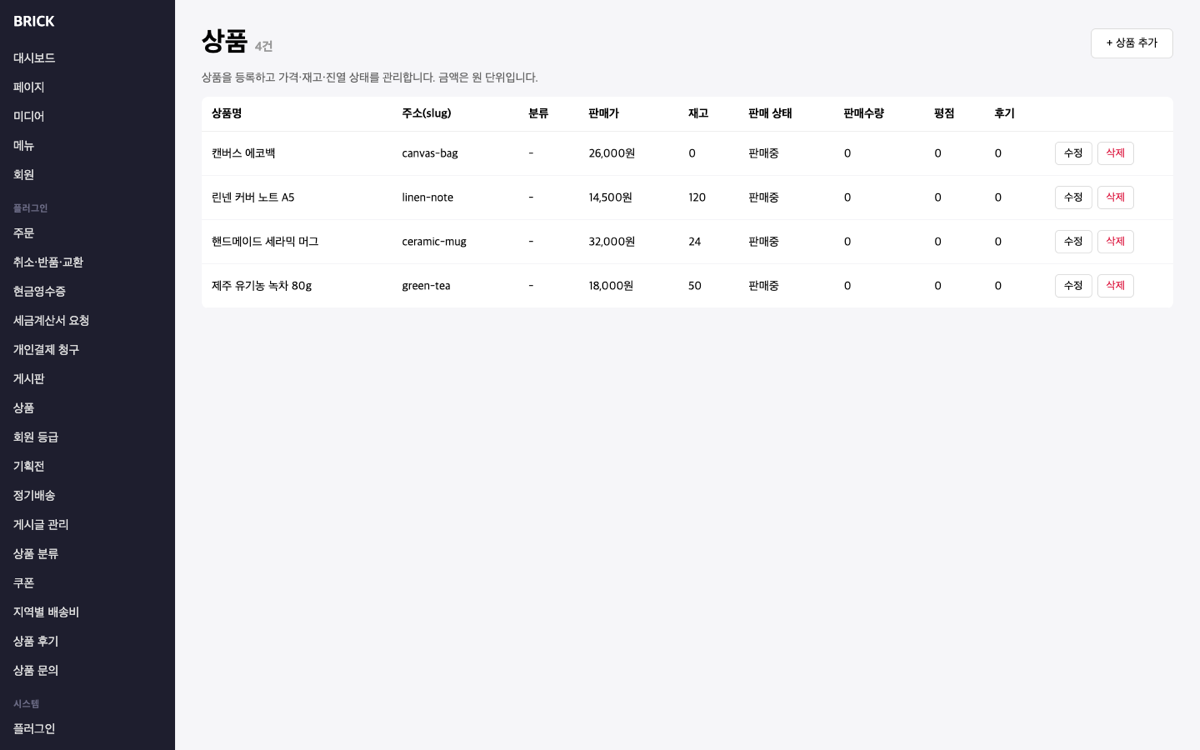
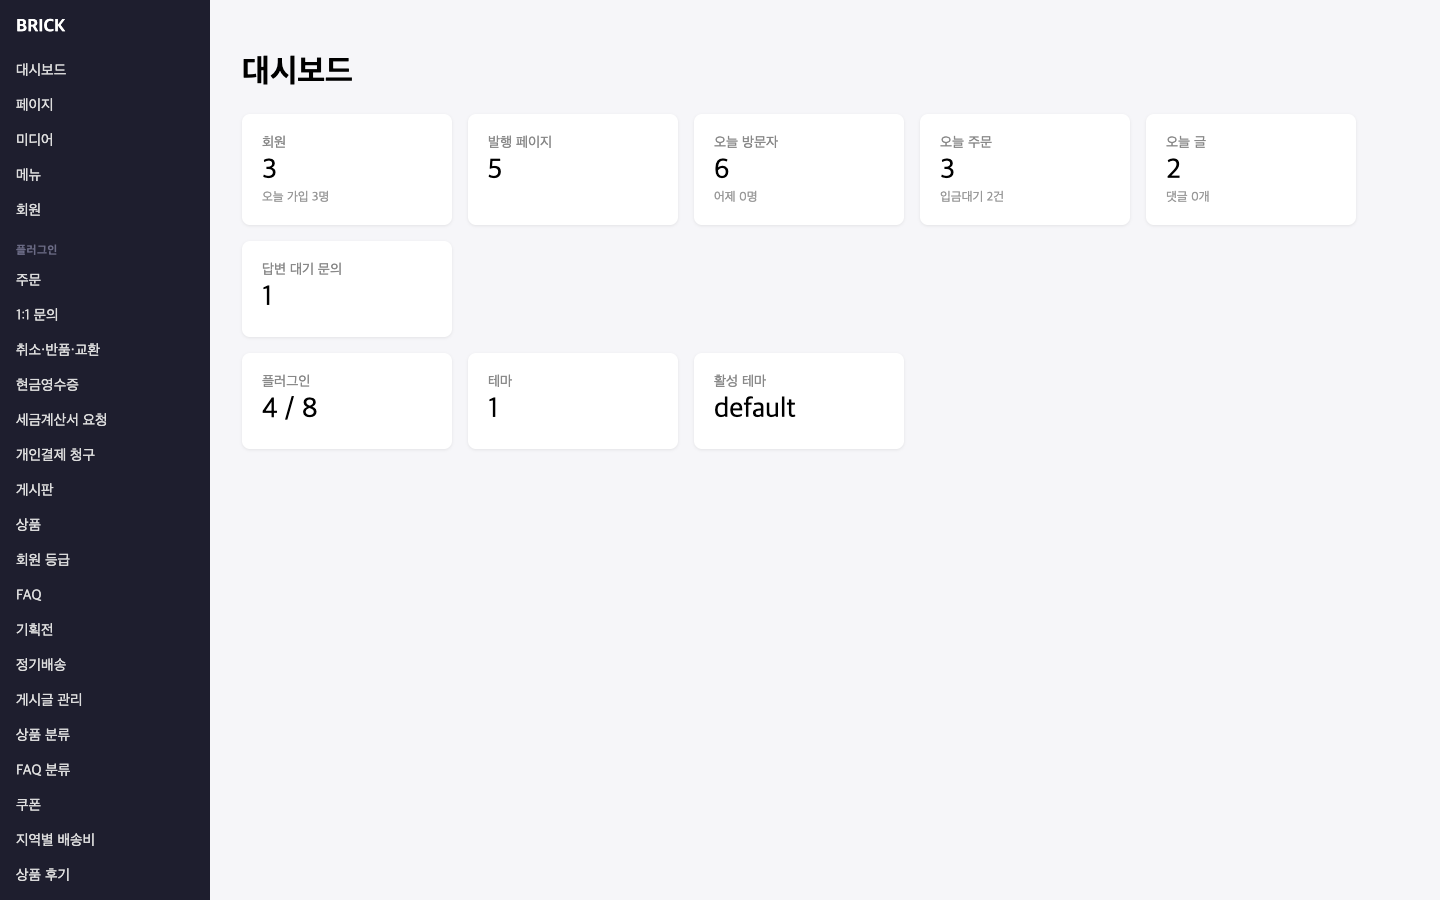
랜딩: 관리자 스크린샷을 대시보드 첫 화면으로 교체
상품 목록 컷보다 "오늘의 사이트" 대시보드(ADR-78)가 그누보드 사용자에게
익숙한 관리자 첫인상을 정확히 보여준다 — 방문자·주문·글·문의 카드가
실데이터로 살아 있는 실물 캡처다.

diff --git a/docs-site/index.html b/docs-site/index.html
@@ -275,8 +275,8 @@ node server.js
         <figcaption>상품 상세 — 할인 표시 · 재고 · 장바구니 · 후기/문의 탭까지 기본</figcaption>
       </figure>
       <figure>
-        <img src="img/shot-admin.png" alt="관리자 상품 목록" loading="lazy" width="1200" height="750" />
-        <figcaption>관리자 — 플러그인이 선언만 하면 코어가 관리 화면을 만들어 줍니다</figcaption>
+        <img src="img/shot-admin.png" alt="관리자 대시보드 — 오늘의 방문자·주문·글·문의 카드" loading="lazy" width="1440" height="900" />
+        <figcaption>관리자 첫 화면 — 오늘의 방문자·주문·글·문의를 플러그인이 카드로 올립니다</figcaption>
       </figure>
       <figure>
         <img src="img/shot-builder.png" alt="페이지 빌더 편집 화면" loading="lazy" width="1200" height="750" />
